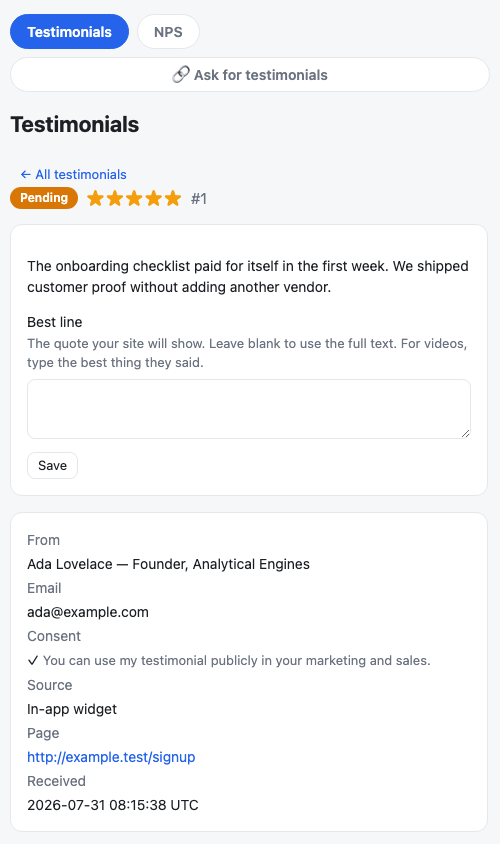
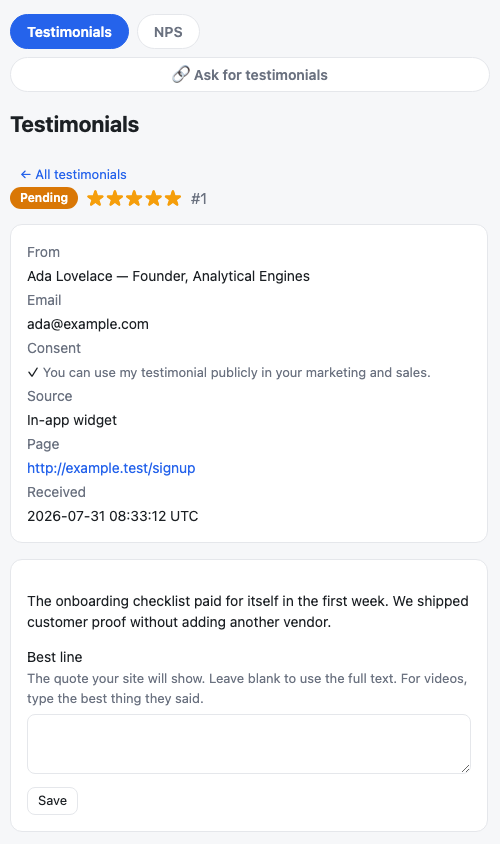
Refine admin detail ordering

Changed region(s): [[0.03, 0.2773, 0.93, 0.9858]]

diff --git a/test/integration/dashboard_test.rb b/test/integration/dashboard_test.rb
@@ -60,6 +60,8 @@ class DashboardTest < ActionDispatch::IntegrationTest
     assert_includes response.body, 'record-row testimonial-row active'
     assert_includes response.body, 'Wonderful tool'
     assert_includes response.body, 'Best line'
+    assert_operator response.body.rindex('Ada'), :<, response.body.rindex('Wonderful tool')
+    assert_operator response.body.rindex('Wonderful tool'), :<, response.body.rindex('Approve')
   end
 
   test 'shows one testimonial independently' do
@@ -118,6 +120,7 @@ class DashboardTest < ActionDispatch::IntegrationTest
     assert_includes response.body, 'record-row nps-row active'
     assert_includes response.body, 'Superb'
     assert_includes response.body, 'Ada'
+    assert_operator response.body.rindex('Ada'), :<, response.body.rindex('Superb')
   end
 
   test 'shows one NPS response independently' do
